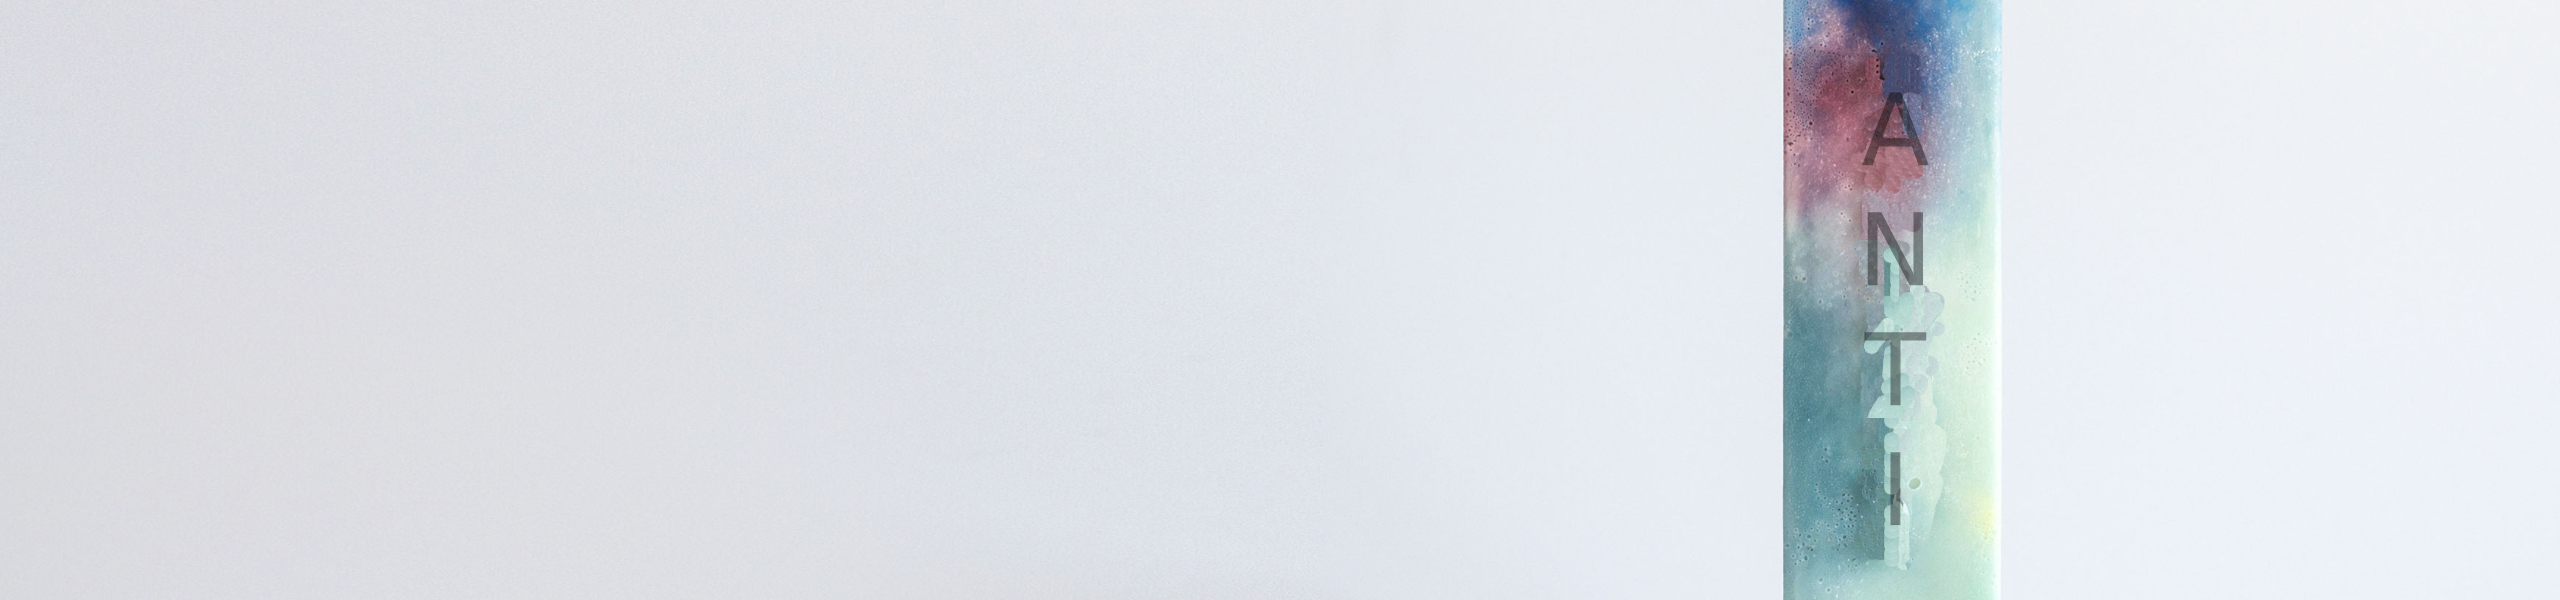
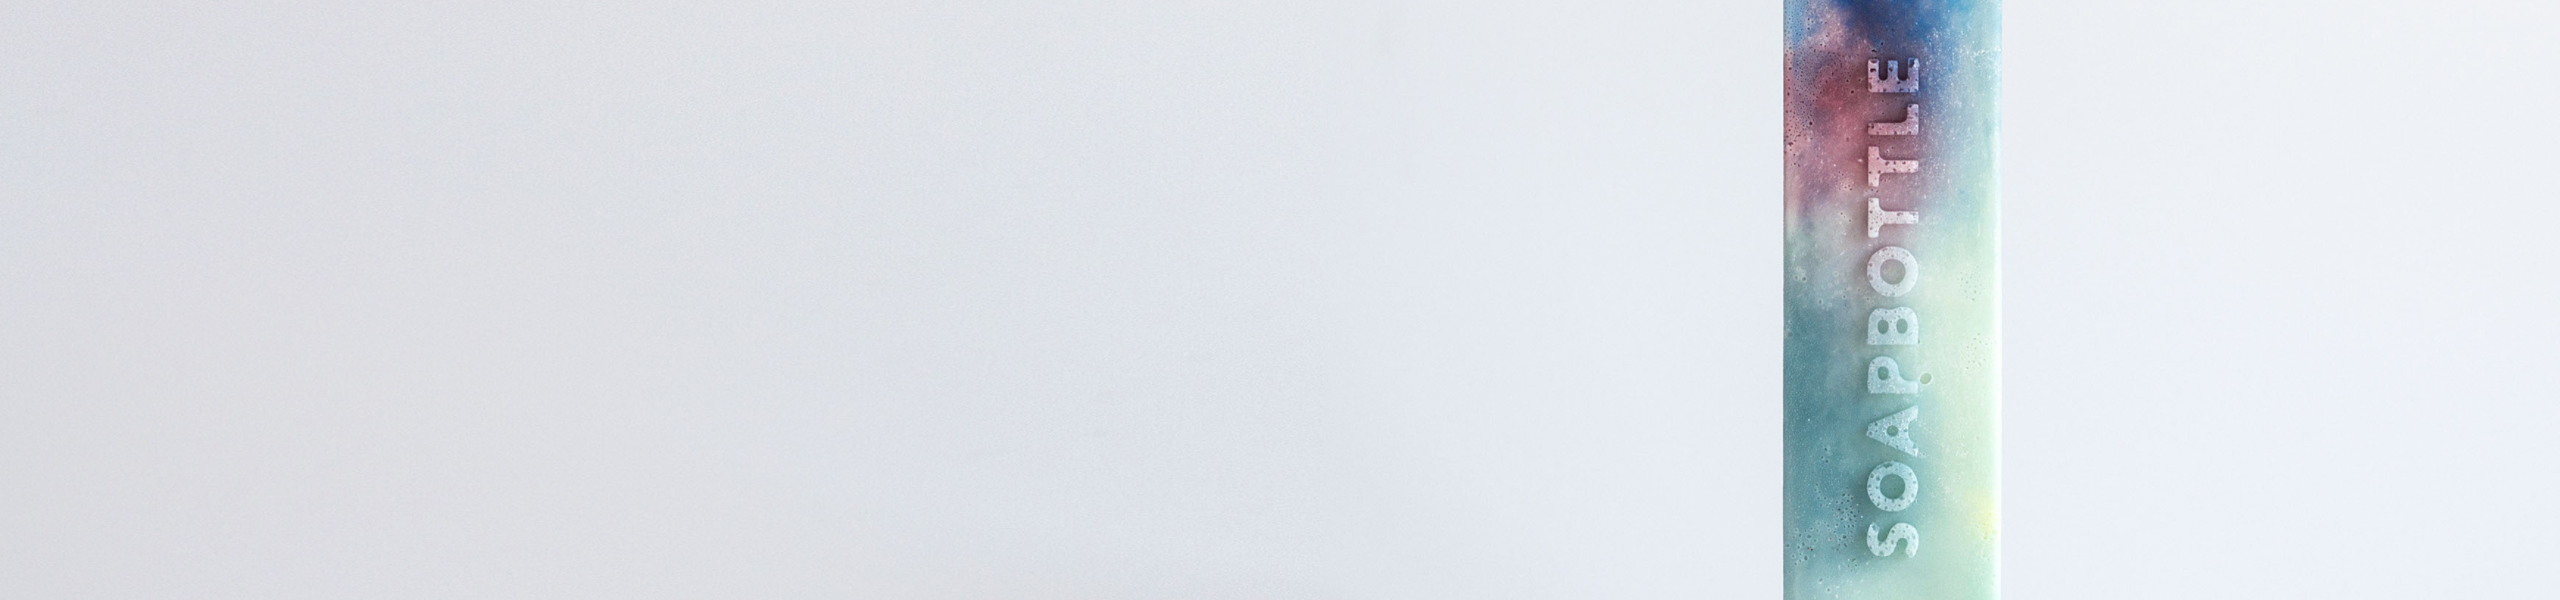
Update product photo

Changed region(s): [[0.7188, 0.09, 0.7812, 0.93]]

diff --git a/product.html b/product.html
@@ -132,7 +132,7 @@
 
                             <div class="col-lg-3 col-sm-3">
                                 <div class="single_product_item">
-                                    <img src="img/product/product_list_3.png" alt="#" class="img-fluid">
+                                    <img src="img/product/soapallovera.png" alt="#" class="img-fluid">
                                     <h3> <a href="singleproduct1.html">Allo Vera I'm fresh</a> </h3>
                                     <h5>Le plaisir au naturel</h5>
 
@@ -141,7 +141,7 @@
 
                             <div class="col-lg-3 col-sm-3">
                                 <div class="single_product_item">
-                                    <img src="img/product/product_list_3.png" alt="#" class="img-fluid">
+                                    <img src="img/product/soaporange isthenewwash.png" alt="#" class="img-fluid">
                                     <h3> <a href="singleproduct1.html">Orange is the new wash</a> </h3>
                                     <h5>Mousse juteuse et adoucissante</h5>
                                 </div>
